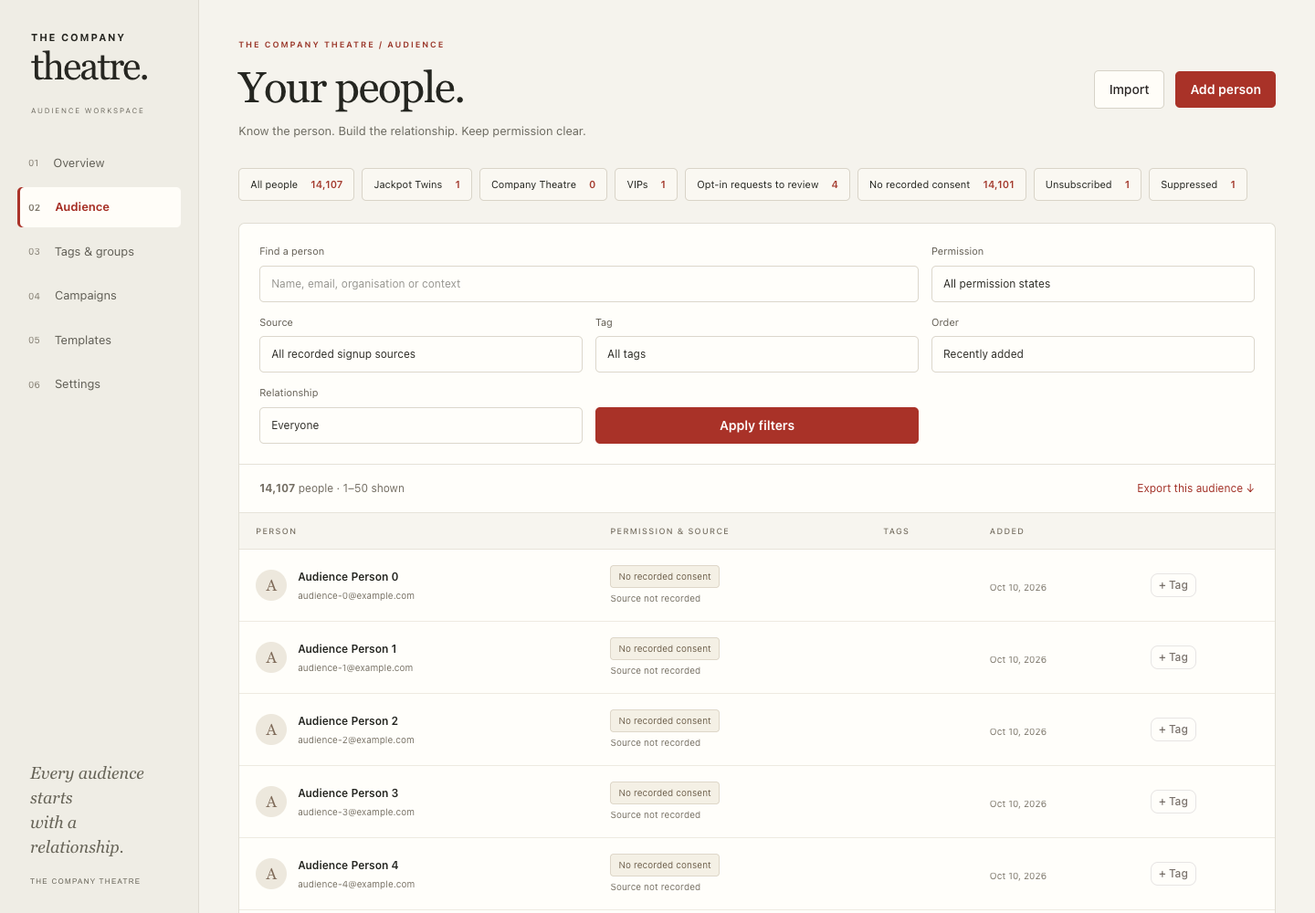
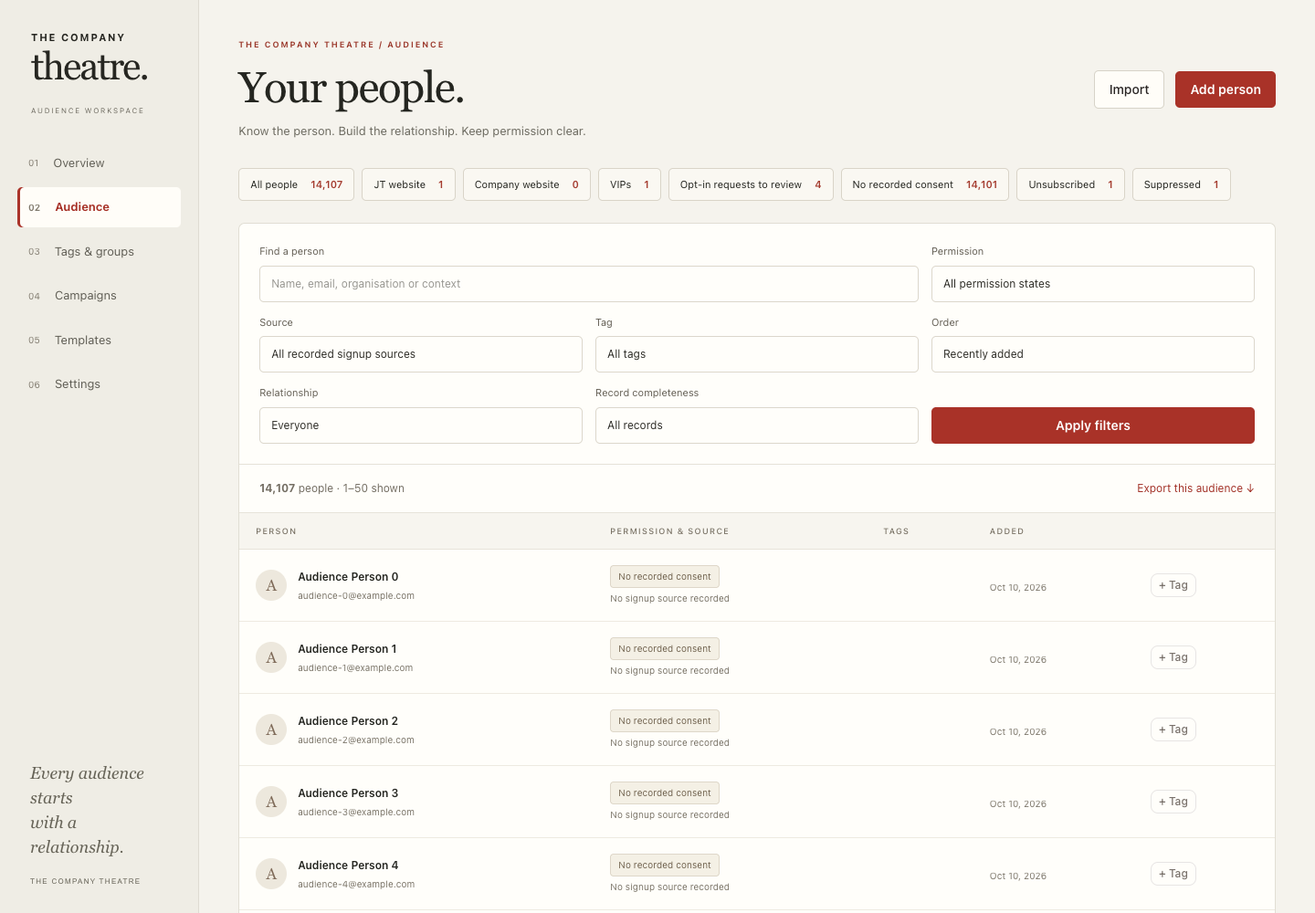
fix: surface audience data gaps and current review requests

diff --git a/src/app/(admin)/contacts/page.tsx b/src/app/(admin)/contacts/page.tsx
@@ -16,11 +16,15 @@ export default async function ContactsPage({ searchParams }: {
     const active = Object.entries(f).filter(([k, v]) => !['page', 'sort'].includes(k) && v);
     return <div className="audience-page"><header className="audience-header"><div><p className="eyebrow">THE COMPANY THEATRE / AUDIENCE</p><h1>Your people.</h1><p>Know the person. Build the relationship. Keep permission clear.</p></div><div className="audience-actions"><Link className="btn btn-secondary btn-md" href="/contacts/import">Import</Link><Link className="btn btn-primary btn-md" href="/contacts/new">Add person</Link></div></header>
  <nav className="audience-presets" aria-label="Audience preset views">{segments.map(p => <Link key={p.label} href={audienceUrl(p.filters)} className="audience-preset"><span>{p.label}</span><strong>{p.count.toLocaleString()}</strong></Link>)}</nav>
- <section className="audience-panel"><form className="audience-filters" method="GET" action="/contacts">{f.review && <input type="hidden" name="review" value="1"/>}<label className="audience-search">Find a person<input name="search" defaultValue={f.search} placeholder="Name, email, organisation or context"/></label><label>Permission<select name="status" defaultValue={f.status}><option value="">All permission states</option>{Object.entries(permissionLabels).map(([k, v]) => <option key={k} value={k}>{v}</option>)}</select></label><label>Source<select name="source" defaultValue={f.source}><option value="">All recorded signup sources</option>{sources.map(s => <option key={s.source}>{s.source}</option>)}</select></label><label>Tag<select name="tag" defaultValue={f.tag}><option value="">All tags</option>{tags.map(t => <option key={t.id}>{t.name}</option>)}</select></label><label>Order<select name="sort" defaultValue={f.sort}><option value="recent">Recently added</option><option value="oldest">Oldest first</option><option value="name">Name A–Z</option></select></label><label>Relationship<select name="vip" defaultValue={f.vip}><option value="">Everyone</option><option value="1">VIP only</option></select></label><button className="btn btn-primary btn-md">Apply filters</button></form>
- {active.length > 0 && <div className="audience-chips">{active.map(([k, v]) => <Link key={k} href={audienceUrl({ ...f, [k]: '', page: 1 })} className="badge badge-neutral" aria-label={`Remove ${k} filter`}>{k}: {k === 'status' ? permissionLabels[v as keyof typeof permissionLabels] : v} ×</Link>)}<Link href="/contacts">Clear all</Link></div>}
+ <section className="audience-panel"><form className="audience-filters" method="GET" action="/contacts">{f.review && <input type="hidden" name="review" value="1"/>}<label className="audience-search">Find a person<input name="search" defaultValue={f.search} placeholder="Name, email, organisation or context"/></label><label>Permission<select name="status" defaultValue={f.status}><option value="">All permission states</option>{Object.entries(permissionLabels).map(([k, v]) => <option key={k} value={k}>{v}</option>)}</select></label><label>Source<select name="source" defaultValue={f.source}><option value="">All recorded signup sources</option>{sources.map(s => <option key={s.source}>{s.source}</option>)}</select></label><label>Tag<select name="tag" defaultValue={f.tag}><option value="">All tags</option>{tags.map(t => <option key={t.id}>{t.name}</option>)}</select></label><label>Order<select name="sort" defaultValue={f.sort}><option value="recent">Recently added</option><option value="oldest">Oldest first</option><option value="name">Name A–Z</option></select></label><label>Relationship<select name="vip" defaultValue={f.vip}><option value="">Everyone</option><option value="1">VIP only</option></select></label><label>Record completeness<select name="quality" defaultValue={f.quality}><option value="">All records</option><option value="missing_name">Missing name</option><option value="missing_city">Missing city</option></select></label><button className="btn btn-primary btn-md">Apply filters</button></form>
+ {active.length > 0 && <div className="audience-chips">{active.map(([k, v]) => <Link key={k} href={audienceUrl({ ...f, [k]: '', page: 1 })} className="badge badge-neutral" aria-label={`Remove ${k} filter`}>{k}: {k === 'status' ? permissionLabels[v as keyof typeof permissionLabels] : k === 'quality' ? (v==='missing_name'?'Missing name':'Missing city') : v} ×</Link>)}<Link href="/contacts">Clear all</Link></div>}
  <div className="audience-list-heading"><span><strong>{total.toLocaleString()}</strong> people{total > 0 ? ` · ${(page - 1) * 50 + 1}–${Math.min(page * 50, total)} shown` : ''}</span><a href={audienceUrl(f, '/api/contacts/export')} download>Export this audience ↓</a></div>
  {f.tag && <div className="audience-tag-tools"><span>Manage “{f.tag}”</span><AddToTagSearch tagName={f.tag}/></div>}
- <div className="audience-table-wrap"><table className="audience-table"><thead><tr><th>Person</th><th>Permission & source</th><th>Tags</th><th>Added</th><th><span className="sr-only">Actions</span></th></tr></thead><tbody>{contacts.map(c => <tr key={c.id}><td><Link className="person-link" href={`/contacts/${c.id}`}><span className="person-initial">{(c.fullName || c.email).slice(0, 1).toUpperCase()}</span><span><strong>{c.fullName || c.email}{c.vip ? ' · VIP' : ''}</strong><small>{c.email}</small>{c.organization && <small>{c.organization}</small>}</span></Link></td><td><span className={`permission permission-${c.permission}`}>{permissionLabels[c.permission]}</span><small>{c.latestSource || 'Source not recorded'}</small></td><td><div className="audience-chips">{c.tags.slice(0, 3).map(({ tag }) => <Link className="badge badge-neutral" key={tag.id} href={audienceUrl({ tag: tag.name })}>{tag.name}</Link>)}{c.tags.length > 3 && <span>+{c.tags.length - 3}</span>}</div></td><td><small>{c.createdAt.toLocaleDateString('en-CA', { timeZone: 'America/Toronto', year: 'numeric', month: 'short', day: 'numeric' })}</small></td><td><QuickTagButton contactId={c.id} contactName={c.fullName || c.email} existingTagNames={c.tags.map(t => t.tag.name)} allTags={tags}/>{f.tag && <RemoveTagButton contactId={c.id} tagName={f.tag}/>}</td></tr>)}</tbody></table></div>
+ <div className="audience-table-wrap"><table className="audience-table"><thead><tr><th>Person</th><th>Permission & source</th><th>Tags</th><th>Added</th><th><span className="sr-only">Actions</span></th></tr></thead><tbody>{contacts.map(c => <tr key={c.id}><td><Link className="person-link" href={`/contacts/${c.id}`}><span className="person-initial">{personName(c).slice(0, 1).toUpperCase()}</span><span><strong>{personName(c)}{c.vip ? ' · VIP' : ''}</strong><small>{c.email}</small>{c.organization && <small>{c.organization}</small>}</span></Link></td><td><span className={`permission permission-${c.permission}`}>{permissionLabels[c.permission]}</span><small>{c.latestSource || 'No signup source recorded'}</small></td><td><div className="audience-chips">{c.tags.slice(0, 3).map(({ tag }) => <Link className="badge badge-neutral" key={tag.id} href={audienceUrl({ tag: tag.name })}>{tag.name}</Link>)}{c.tags.length > 3 && <span>+{c.tags.length - 3}</span>}</div></td><td><small>{c.createdAt.toLocaleDateString('en-CA', { timeZone: 'America/Toronto', year: 'numeric', month: 'short', day: 'numeric' })}</small></td><td><QuickTagButton contactId={c.id} contactName={personName(c)} existingTagNames={c.tags.map(t => t.tag.name)} allTags={tags}/>{f.tag && <RemoveTagButton contactId={c.id} tagName={f.tag}/>}</td></tr>)}</tbody></table></div>
  {total === 0 && <div className="audience-empty"><h2>No people match these filters.</h2><p>Try a broader search or clear a filter. Your audience has not changed.</p><Link className="btn btn-secondary btn-md" href="/contacts">Reset filters</Link></div>}
  <footer className="audience-list-heading"><p>Permission evidence is separate from a contact’s mailing flag.</p><nav aria-label="Audience pagination" className="audience-actions">{page > 1 && <Link href={audienceUrl({ ...f, page: page - 1 })}>← Previous</Link>}<span>Page {page} of {pages}</span>{page < pages && <Link href={audienceUrl({ ...f, page: page + 1 })}>Next →</Link>}</nav></footer></section></div>;
+}
+
+function personName(contact: { fullName: string | null; firstName: string | null; lastName: string | null; email: string }) {
+    return contact.fullName?.trim() || [contact.firstName?.trim(),contact.lastName?.trim()].filter(Boolean).join(' ') || contact.email;
 }

diff --git a/src/app/(admin)/page.tsx b/src/app/(admin)/page.tsx
@@ -4,16 +4,18 @@ import { audienceCount, audienceUrl, parseAudience } from '@/lib/audience-worksp
 export const dynamic = 'force-dynamic';
 export default async function Dashboard() {
     const now = new Date();
-    const [total, unknown, recorded, followCount, overdue, followUps, drafts, recent, tags] = await Promise.all([
+    const [total, unknown, recorded, followCount, overdue, followUps, drafts, recent, tags, missingNames, missingCities] = await Promise.all([
         audienceCount(parseAudience({})), audienceCount(parseAudience({ status: 'unknown' })), audienceCount(parseAudience({ status: 'recorded' })),
         prisma.contactFollowUp.count({ where: { completedAt: null } }), prisma.contactFollowUp.count({ where: { completedAt: null, dueDate: { lt: now } } }),
         prisma.contactFollowUp.findMany({ where: { completedAt: null }, orderBy: [{ dueDate: { sort: 'asc', nulls: 'last' } }, { id: 'asc' }], take: 5, include: { contact: { select: { fullName: true, email: true } } } }),
         prisma.campaign.findMany({ where: { status: 'DRAFT' }, orderBy: { updatedAt: 'desc' }, take: 4, select: { id: true, name: true, subject: true, updatedAt: true } }),
         prisma.consentEvidence.findMany({ orderBy: { recordedAt: 'desc' }, take: 6, select: { id: true, contactId: true, email: true, source: true, status: true, recordedAt: true } }),
-        prisma.tag.findMany({ orderBy: { contacts: { _count: 'desc' } }, take: 8, include: { _count: { select: { contacts: true } } } })
+        prisma.tag.findMany({ orderBy: { contacts: { _count: 'desc' } }, take: 8, include: { _count: { select: { contacts: true } } } }),
+        audienceCount(parseAudience({quality:'missing_name'})), audienceCount(parseAudience({quality:'missing_city'}))
     ]);
     return <div className="audience-page"><header className="audience-header"><div><p className="eyebrow">THE COMPANY THEATRE / AUDIENCE WORKSPACE</p><h1>A closer connection.</h1><p>A place to know your audience, nurture relationships and prepare what comes next.</p></div><Link className="btn btn-primary btn-md" href="/contacts">Explore audience ↗</Link></header>
  <section className="audience-metrics" aria-label="Audience overview">{[{ label: 'People in your audience', value: total, href: '/contacts', note: 'One record. A richer relationship.' }, { label: 'Opt-in recorded', value: recorded, href: audienceUrl({ status: 'recorded' }), note: 'Recorded opt-in, no current contact block.' }, { label: 'No recorded consent', value: unknown, href: audienceUrl({ status: 'unknown' }), note: 'Mailing flag on; evidence needs review.' }, { label: 'Open follow-ups', value: followCount, href: '#follow-ups', note: `${overdue} overdue · small actions, lasting connections.` }].map(s => <Link href={s.href} key={s.label} className="audience-metric"><span>{s.label}</span><strong>{s.value.toLocaleString()}</strong><small>{s.note}</small></Link>)}</section>
+ <section className="audience-quality" aria-label="Complete audience records"><div><strong>Complete the picture.</strong><p>Small details make a more useful audience.</p></div><Link href={audienceUrl({quality:'missing_name'})}><strong>{missingNames.toLocaleString()}</strong> missing names →</Link><Link href={audienceUrl({quality:'missing_city'})}><strong>{missingCities.toLocaleString()}</strong> missing cities →</Link></section>
  <div className="audience-dashboard-grid"><section className="audience-panel audience-section"><div className="audience-section-head"><div><p className="eyebrow">YOUR EXISTING COMMUNITY</p><h2>Find a familiar group.</h2></div><Link href="/tags">All tags →</Link></div><p className="audience-muted">Existing tagged groups, not newly verified attendance or permission.</p><div className="audience-groups">{tags.map(t => <Link key={t.id} href={audienceUrl({ tag: t.name })}><span>{t.name}</span><strong>{t._count.contacts.toLocaleString()} ↗</strong></Link>)}</div>{tags.length === 0 && <p className="audience-empty">No groups yet. Add tags from a person’s record.</p>}</section>
  <section id="follow-ups" className="audience-panel audience-section"><div className="audience-section-head"><div><p className="eyebrow">RELATIONSHIPS</p><h2>The next conversation.</h2></div><span className="badge badge-neutral">{followCount} open</span></div>{followUps.length ? followUps.map(f => <Link className="audience-feed" href={`/contacts/${f.contactId}`} key={f.id}><strong>{f.description}</strong><span>{f.contact.fullName || f.contact.email}</span><small>{f.dueDate ? `${f.dueDate < now ? 'Overdue · ' : ''}${f.dueDate.toLocaleDateString('en-CA', { timeZone: 'America/Toronto' })}` : 'No due date'} · {f.priority} priority</small></Link>) : <div className="audience-empty"><h3>A little follow-through goes a long way.</h3><p>Add a follow-up from any person’s record. Your next conversations will appear here.</p><Link href="/contacts">Find someone →</Link></div>}</section>
  <section className="audience-panel audience-section"><div className="audience-section-head"><div><p className="eyebrow">NEW CONNECTIONS</p><h2>Recent signup requests.</h2></div></div><p className="audience-muted">Recorded requests are not necessarily mailing permissions.</p>{recent.length ? recent.map(e => <Link className="audience-feed" href={`/contacts/${e.contactId}`} key={e.id}><strong>{e.email}</strong><span>{e.source}</span><small>{e.status === 'express_opt_in_recorded' ? 'Opt-in recorded at signup' : 'Review needed'} · {e.recordedAt.toLocaleDateString('en-CA', { timeZone: 'America/Toronto' })}</small></Link>) : <div className="audience-empty"><h3>Ready for the next new face.</h3><p>Website signup evidence will appear here as it arrives. Historical mailing flags are not shown as new signups.</p></div>}</section>

diff --git a/src/lib/audience-workspace.ts b/src/lib/audience-workspace.ts
@@ -7,7 +7,8 @@ export function parseAudience(params: AudienceParams) {
     const str = (key: string) => typeof params[key] === 'string' ? (params[key] as string).trim().slice(0, 200) : '';
     const status = str('status');
     const sort = str('sort');
-    return { search: str('search'), tag: str('tag'), source: str('source'), status: Object.hasOwn(permissionLabels, status) ? status : '', vip: str('vip') === '1' ? '1' : '', review: str('review') === '1' ? '1' : '', sort: ['name', 'oldest', 'recent'].includes(sort) ? sort : 'recent', page: /^\d{1,7}$/.test(str('page')) ? Math.max(1, Number(str('page'))) : 1 };
+    const quality = str('quality');
+    return { quality: ['missing_name','missing_city'].includes(quality) ? quality : '', search: str('search'), tag: str('tag'), source: str('source'), status: Object.hasOwn(permissionLabels, status) ? status : '', vip: str('vip') === '1' ? '1' : '', review: str('review') === '1' ? '1' : '', sort: ['name', 'oldest', 'recent'].includes(sort) ? sort : 'recent', page: /^\d{1,7}$/.test(str('page')) ? Math.max(1, Number(str('page'))) : 1 };
 }
 export type AudienceFilters = ReturnType<typeof parseAudience>;
 export function audienceUrl(filters: Partial<AudienceFilters>, base = '/contacts') {
@@ -25,7 +26,7 @@ const projection = Prisma.sql `SELECT c.*, CASE
  WHEN e.status='express_opt_in_recorded' THEN 'recorded'
  WHEN e.status IS NOT NULL THEN 'review'
  ELSE 'unknown' END AS permission,
- e.source AS "latestSource"
+ e.source AS "latestSource", e.status AS "latestConsentStatus"
  FROM "Contact" c LEFT JOIN LATERAL (SELECT status, source FROM "ConsentEvidence" WHERE "contactId"=c.id AND lower(email)=lower(c.email) ORDER BY "recordedAt" DESC,id DESC LIMIT 1) e ON true`;
 function predicate(f: AudienceFilters) {
     const parts: Prisma.Sql[] = [Prisma.sql `true`];
@@ -38,9 +39,13 @@ function predicate(f: AudienceFilters) {
     if (f.status)
         parts.push(Prisma.sql `a.permission=${f.status}`);
     if (f.review)
-        parts.push(Prisma.sql `EXISTS(SELECT 1 FROM "ConsentEvidence" ce WHERE ce."contactId"=a.id AND lower(ce.email)=lower(a.email) AND ce.status='express_opt_in_needs_review')`);
+        parts.push(Prisma.sql `a."latestConsentStatus"='express_opt_in_needs_review'`);
     if (f.vip)
         parts.push(Prisma.sql `a.vip=true`);
+    if (f.quality === 'missing_name')
+        parts.push(Prisma.sql `coalesce(a."fullName",'') ~ '^[[:space:]]*$' AND coalesce(a."firstName",'') ~ '^[[:space:]]*$' AND coalesce(a."lastName",'') ~ '^[[:space:]]*$'`);
+    if (f.quality === 'missing_city')
+        parts.push(Prisma.sql `coalesce(a.city,'') ~ '^[[:space:]]*$'`);
     return Prisma.join(parts, ' AND ');
 }
 export async function audienceCount(f: AudienceFilters) {
@@ -61,7 +66,7 @@ export async function audienceRows(f: AudienceFilters, page?: number) {
     return ids.flatMap(row => { const c = map.get(row.id); return c ? [{ ...c, ...row }] : []; });
 }
 export const presets = [
-    { label: 'All people', filters: {} }, { label: 'Jackpot Twins', filters: { tag: 'Jackpot Website' } }, { label: 'Company Theatre', filters: { tag: 'Website Signup' } }, { label: 'VIPs', filters: { vip: '1' } }, { label: 'Opt-in requests to review', filters: { review: '1' } }, { label: 'No recorded consent', filters: { status: 'unknown' } }, { label: 'Unsubscribed', filters: { status: 'unsubscribed' } }, { label: 'Suppressed', filters: { status: 'suppressed' } },
+    { label: 'All people', filters: {} }, { label: 'JT website', filters: { tag: 'Jackpot Website' } }, { label: 'Company website', filters: { tag: 'Website Signup' } }, { label: 'VIPs', filters: { vip: '1' } }, { label: 'Opt-in requests to review', filters: { review: '1' } }, { label: 'No recorded consent', filters: { status: 'unknown' } }, { label: 'Unsubscribed', filters: { status: 'unsubscribed' } }, { label: 'Suppressed', filters: { status: 'suppressed' } },
 ];
 export async function audiencePresets() { return Promise.all(presets.map(async (p) => ({ ...p, count: await audienceCount(parseAudience(p.filters)) }))); }
 export function csvCell(value: unknown) { const text = String(value ?? ''); const safe = /^[\s]*[=+@-]|^[\t\r\n]/.test(text) ? `'${text}` : text; return `"${safe.replaceAll('"', '""')}"`; }

diff --git a/tests/audience-workspace.test.ts b/tests/audience-workspace.test.ts
@@ -39,7 +39,7 @@ test('isolated audience workspace', { skip: process.env.CRM_ISOLATED_PROOF !== '
             assert.equal(await audienceCount(parseAudience({ review: '1' })), 4);
             assert.equal(await audienceCount(parseAudience({ review: '1', status: 'suppressed' })), 1);
             const segments = await audiencePresets();
-            assert.equal(segments.find(s => s.label === 'Jackpot Twins')?.count, 1);
+            assert.equal(segments.find(s => s.label === 'JT website')?.count, 1);
         });
         await t.test('count/list/export use same organization, source, VIP and tag predicates', async () => {
             for (const f of [{ search: 'Arts & friends #1' }, { source: 'jackpottwins.ca', vip: '1' }, { tag: 'Jackpot Website' }, { review: '1', status: 'dnc' }]) {
@@ -54,6 +54,34 @@ test('isolated audience workspace', { skip: process.env.CRM_ISOLATED_PROOF !== '
                     assert.ok(text.includes(r.email));
             }
             assert.equal(await audienceCount(parseAudience({ search: "' OR true --" })), 0);
+        });
+        await t.test('resolved latest evidence clears review without weakening suppression precedence', async () => {
+            const resolved = await prisma.consentEvidence.create({data:{contactId:by('review').id,email:by('review').email,source:'jackpottwins.ca',status:'express_opt_in_recorded',recordedAt:new Date(Date.now()+1000)}});
+            const blocked = await prisma.consentEvidence.create({data:{contactId:by('suppressed').id,email:by('suppressed').email,source:'jackpottwins.ca',status:'express_opt_in_recorded',recordedAt:new Date(Date.now()+1000)}});
+            const oldAddress = await prisma.consentEvidence.create({data:{contactId:by('review').id,email:'old-address@example.com',source:'jackpottwins.ca',status:'express_opt_in_needs_review',recordedAt:new Date(Date.now()+2000)}});
+            try {
+                assert.equal(await audienceCount(parseAudience({review:'1'})),2);
+                assert.equal(await audiencePermission(by('review').id),'recorded');
+                assert.equal(await audiencePermission(by('suppressed').id),'suppressed');
+                assert.equal(await audienceCount(parseAudience({review:'1',status:'suppressed'})),0);
+            } finally {await prisma.consentEvidence.deleteMany({where:{id:{in:[resolved.id,blocked.id,oldAddress.id]}}});}
+        });
+        await t.test('quality filters count/list/export only real missing fields, including whitespace', async () => {
+            const fixtures = await Promise.all([
+                prisma.contact.create({data:{email:'quality-blank@example.com',fullName:'  ',firstName:'\t',lastName:null,city:' '}}),
+                prisma.contact.create({data:{email:'quality-first@example.com',firstName:'Real',city:'Toronto'}}),
+                prisma.contact.create({data:{email:'quality-full@example.com',fullName:'Real Person',city:null}}),
+            ]);
+            try {
+                for (const [quality, expected] of [['missing_name',1],['missing_city',2]] as const) {
+                    const filters=parseAudience({search:'quality-',quality});
+                    assert.equal(await audienceCount(filters),expected);
+                    const rows=await audienceRows(filters,1);assert.equal(rows.length,expected);
+                    const response=await exportCsv(new NextRequest(audienceUrl(filters,'http://localhost/api/contacts/export')));
+                    const csv=await response.text();assert.equal(csv.split('\r\n').length,expected+1);
+                    for(const row of rows)assert.ok(csv.includes(row.email));
+                }
+            } finally {await prisma.contact.deleteMany({where:{id:{in:fixtures.map(f=>f.id)}}});}
         });
         await t.test('creation validates, is case-insensitive and never opts anyone in', async () => {
             assert.equal((await create(req({ email: 'invalid' }))).status, 400);

diff --git a/src/app/audience.css b/src/app/audience.css
@@ -6,3 +6,4 @@
 @media(max-width:600px){.audience-table{min-width:0;display:block}.audience-table thead{display:none}.audience-table tbody{display:block}.audience-table tr{display:grid;grid-template-columns:minmax(0,1fr) auto;padding:14px 16px;border-bottom:1px solid #e8e2d7;gap:10px}.audience-table td{display:block;border:0;padding:0;max-width:none;min-width:0}.audience-table td:first-child{grid-column:1/-1}.audience-table td:nth-child(2){grid-column:1}.audience-table td:nth-child(3){grid-column:1/-1}.audience-table td:nth-child(4){grid-column:1;grid-row:4}.audience-table td:nth-child(5){grid-column:2;grid-row:4;text-align:right}.audience-table-wrap{overflow:visible}}
 .audience-evidence{margin:0}
 @media(max-width:420px){.audience-filters{grid-template-columns:minmax(0,1fr)}.audience-filters .audience-search,.audience-filters button{grid-column:1}}
+.audience-quality{display:flex;align-items:center;gap:28px;flex-wrap:wrap;border:1px solid #dfd9cc;border-radius:6px;padding:18px 22px;margin-bottom:22px;font-size:12px;background:#eeeae0}.audience-quality>div{margin-right:auto}.audience-quality>div>strong{font:20px Georgia,serif}.audience-quality p{margin-top:5px;color:#726c61;font-size:11px}.audience-quality a{color:#97352b}.audience-quality a strong{font-size:17px;margin-right:4px}@media(max-width:600px){.audience-quality{gap:15px}.audience-quality>div{flex-basis:100%}}

diff --git a/reports/audience-workspace-2026-10-10/REVIEW.md b/reports/audience-workspace-2026-10-10/REVIEW.md
@@ -6,9 +6,9 @@ Local implementation and proof only. Based on production commit `44ff4a4`; branc
 ## Delivered
 - Warm editorial cream/ink/Company-red shell; compact responsive navigation, skip link, mobile menu, reduced-motion support, serif editorial headings. Styles scoped to the admin workspace; subscriber pages retain their separate shell.
 - Truthful overview: real counts, actual existing tagged groups, current drafts rather than misleading historic send counts, open/overdue follow-ups, recorded recent signup requests. No invented growth, purchases or attendance. Historic tags are explicitly not independently verified attendance/permission.
-- Audience directory with URL-persistent text (name/email/organisation/context), tag, recorded-source, permission, VIP and ordering filters; removable chips, clear-all, stable bounded pagination, honest empty state. Full responsive person cards replace horizontal tables on narrow screens.
+- Audience directory with URL-persistent text (name/email/organisation/context), tag, recorded-source, permission, VIP, missing-name/city data-quality and ordering filters; removable chips, clear-all, stable bounded pagination, honest empty state. Full responsive person cards replace horizontal tables on narrow screens.
 - Preset views for all people, existing Jackpot/Company website tags, VIP, recorded opt-in requests needing review, unknown evidence, unsubscribed and suppressed. These are presets, not pretend saved custom segments.
-- Shared parameterized SQL projection/predicates/order for list, counts and CSV. Suppression (case-insensitive email) → unsubscribe → no-solicitation → current matching-email consent evidence → unknown. A mailing flag alone is never displayed as proof of consent. Pending opt-in-request discovery is separate from precedence, so blocked requests remain discoverable.
+- Shared parameterized SQL projection/predicates/order for list, counts and CSV. Suppression (case-insensitive email) → unsubscribe → no-solicitation → current matching-email consent evidence → unknown. A mailing flag alone is never displayed as proof of consent. Pending opt-in-request discovery is separate from precedence, so blocked requests remain discoverable; only the latest evidence matching the current email controls that pending state, so older resolved requests do not linger.
 - CSV exports the entire matching audience in matching order, not merely the page. All cells quoted and spreadsheet formula-leading values neutralized; query links encoded with URLSearchParams. Export failures return explicit errors.
 - Contact header and existing dossier preserved, with read-only matching/current status and up to 50 most recent consent records; older records remain retained. Personal notes have explicit Save/Cancel; failed saves retain edits and show an inline error. Notes/VIP updates send only changed fields, avoiding stale mailing-flag overwrite. Follow-up completion is scoped to the URL contact.
 - Functional Add Person: input validation, case-normalized concurrent duplicate handling and atomic tag writes. Mailing permission always starts off, regardless of submitted flag; no consent is invented and no email is sent.
@@ -19,14 +19,20 @@ Local implementation and proof only. Based on production commit `44ff4a4`; branc
 - Independent `tsc --noEmit`: PASS (`typecheck.log`). Build alone is insufficient because existing Next configuration ignores type errors.
 - Scoped ESLint on every changed TS/TSX file plus new test: PASS, no warnings (`lint.log`).
 - Offline full suite: **26 passed / 3 DB-gated skips** (`unit.log`). Gated suites run separately below.
-- `CRM_BROWSER_PROOF=1 ./scripts/test-audience-local.sh`: **8 passed / 0 skipped** (`audience-proof.log`). Fresh Unix-socket-only PostgreSQL with existing migrations and zero schema drift; completely torn down afterward.
-- Fixture proof: precedence and evidence gaps; blocked opt-in-review discoverability; count/list/CSV predicate parity; SQL-like query text treated literally; creation validation/concurrency/default-off; stale-field preservation; cross-contact follow-up rejection; stable pagination on 14,107 synthetic people. Preset counts plus two list pages measured **62 ms locally** in the final run; not a production performance guarantee.
+- `CRM_BROWSER_PROOF=1 ./scripts/test-audience-local.sh`: **10 passed / 0 skipped** (`audience-proof.log`). Fresh Unix-socket-only PostgreSQL with existing migrations and zero schema drift; completely torn down afterward.
+- Fixture proof: precedence and evidence gaps; blocked opt-in-review discoverability; count/list/CSV predicate parity; SQL-like query text treated literally; creation validation/concurrency/default-off; stale-field preservation; cross-contact follow-up rejection; stable pagination on 14,107 synthetic people. Preset counts plus two list pages are timed in the proof log; local performance is not a production guarantee.
 - Real browser: 1440, 390 and 320 widths across overview/directory/dossier/create; zero document overflow and zero page errors. Actual filter/reload/CSV, Add Person → DB, retained notes on injected HTTP500 → retry → reload, viewport-contained tag picker, mobile navigation tested. Fourteen screenshots saved; desktop and narrow layouts visually inspected.
 - Existing campaign inline Subject save → reload works in actual browser; draft remains DRAFT with zero recipients. 1440/320 campaign layouts have no overflow. Invalid unsubscribe page has no admin sidebar (`campaign-inline-*.png`).
 - Existing delivery/readiness isolated regression: **23 passed** (`readiness.log`). No real provider used.
 - Existing website signup HTTP/DB regression: **8 passed, 1 browser check skipped** (`signup.log`). The website browser proof was established by the prior signup release; this run does not re-claim fresh public-site browser proof. Intake/proxy implementations are unchanged.
 - Knowledge graph rebuilt (`graph.log`); generated graph intentionally excluded from release commit.
 - `git diff --check`: PASS.
+
+## Parent-review follow-up
+- Added live “Complete the picture” links for missing names and cities, plus a persistent Record completeness filter sharing list/count/CSV predicates. Missing name requires all three name fields blank/null/whitespace; email stems are not inferred as names.
+- Latest current-email review evidence supersedes historical pending requests; tests cover later recorded opt-in, irrelevant old email evidence, and unchanged suppression precedence.
+- Website presets are explicitly “JT website” / “Company website”; source fallback is “No signup source recorded,” leaving historical tags meaningful.
+- Quality count/list/export fixture and real browser filter persistence pass; build/typecheck/scoped lint and full 10-check audience/browser proof rerun.
 
 ## Review / rollout boundaries
 - Release requires parent review and separate deployment approval. This work does not enable sending or change email configuration/approvals.
